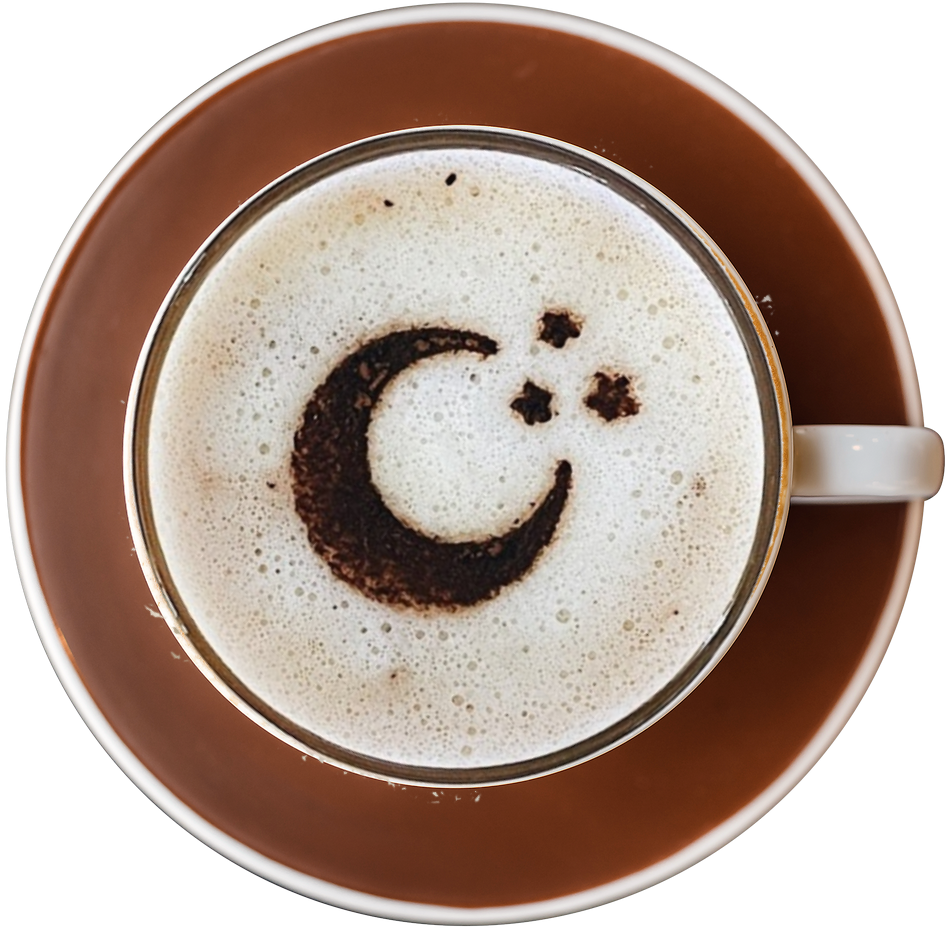
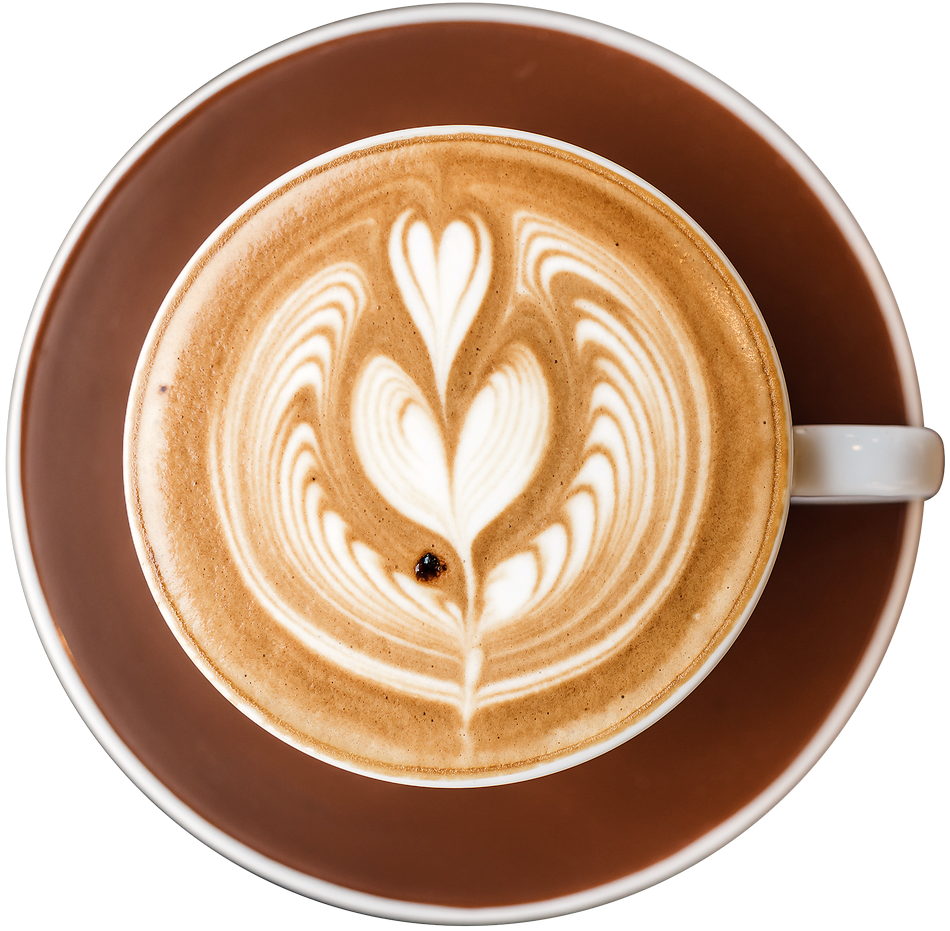
Connected all coffee images to prayer times

diff --git a/screens/BaseScreen.js b/screens/BaseScreen.js
@@ -56,21 +56,26 @@ const BaseScreen = () => {
 	const [isUpdated, setIsUpdated] = useState(false);
 	const intervalRef = useRef(null); // Ref to store the current running interval
 
-	const updatePrayerDetails = (data) => {
+	const setNextPrayerNameAndTime = (prayer365DataFromLS) => {
+		const nextPrayerName = getNextPrayerName(prayer365DataFromLS);
+		const nextPrayerTime = getNextPrayerTime(prayer365DataFromLS);
+		setNextPrayerName(nextPrayerName);
+		setNextPrayerTime(nextPrayerTime);
+	};
+
+	const updatePrayerDetails = (prayer365DataFromLS) => {
 		if (intervalRef.current) {
 			// If there's an existing interval, clear it
 			clearInterval(intervalRef.current);
 		}
 
 		// Get the next prayer details and update the state
-		const nextPrayerName = getNextPrayerName(data);
-		const nextPrayerTime = getNextPrayerTime(data);
-		setNextPrayerName(nextPrayerName);
-		setNextPrayerTime(nextPrayerTime);
+		setNextPrayerNameAndTime(prayer365DataFromLS);
 
 		// Set an interval to update the countdown every second
 		intervalRef.current = setInterval(() => {
-			const countdown = getTimeRemainingUntilTheNextPrayer(data);
+			const countdown =
+				getTimeRemainingUntilTheNextPrayer(prayer365DataFromLS);
 			if (countdown) {
 				setNextPrayerCountdown(countdown);
 			}
@@ -80,15 +85,15 @@ const BaseScreen = () => {
 	const initAppDataFromLSAndUpdateCountdown = async () => {
 		try {
 			// Read data from local storage
-			const data = await get365PrayerDataFromLS();
+			const prayer365DataFromLS = await get365PrayerDataFromLS();
 			const version = await loadFromLocalStorageUsingKey(VERSION);
 
 			// Update the state with the data
-			setPrayerTimes365(data);
+			setPrayerTimes365(prayer365DataFromLS);
 			setCurrentVersion(version);
 
 			// Use the extracted data to set next prayer details
-			updatePrayerDetails(data);
+			updatePrayerDetails(prayer365DataFromLS);
 		} catch (error) {
 			console.error("Error fetching data:", error);
 			console.log("** Saving Fallback data to Local storage... **");
@@ -199,6 +204,7 @@ const BaseScreen = () => {
 			{/* Big card */}
 			<View style={styles.prayerCardContainer}>
 				<CoffeeCard
+					key={nextPrayerName}
 					item={coffeeItems[0]}
 					next={nextPrayerName}
 					countdown={nextPrayerCountdown}

diff --git a/components/coffee-card/index.js b/components/coffee-card/index.js
@@ -42,11 +42,21 @@ const getCountdownParts = (nextPrayerCountdown) => {
 
 export default function CoffeeCard({ item, next, countdown, isActive }) {
 	const BELL_SIZE = 25;
+	const coffeeImages = {
+		sehri: require("../../assets/images/coffee_sehri.png"),
+		fajr: require("../../assets/images/coffee_fajr.png"),
+		sunrise: require("../../assets/images/coffee_sunrise.png"),
+		zuhr: require("../../assets/images/coffee_zuhr.png"),
+		asr: require("../../assets/images/coffee_asr.png"),
+		magrib: require("../../assets/images/coffee_magrib.png"),
+		isha: require("../../assets/images/coffee_isha.png"),
+	};
 
+	const imgSource = coffeeImages[next?.toLowerCase()];
 	return (
 		<View style={styles.cardContainer}>
 			<View style={styles.cardImageContainer}>
-				<Image source={item.image} style={styles.cardImage} />
+				<Image source={imgSource} style={styles.cardImage} />
 			</View>
 
 			<View style={styles.textContainer}>
